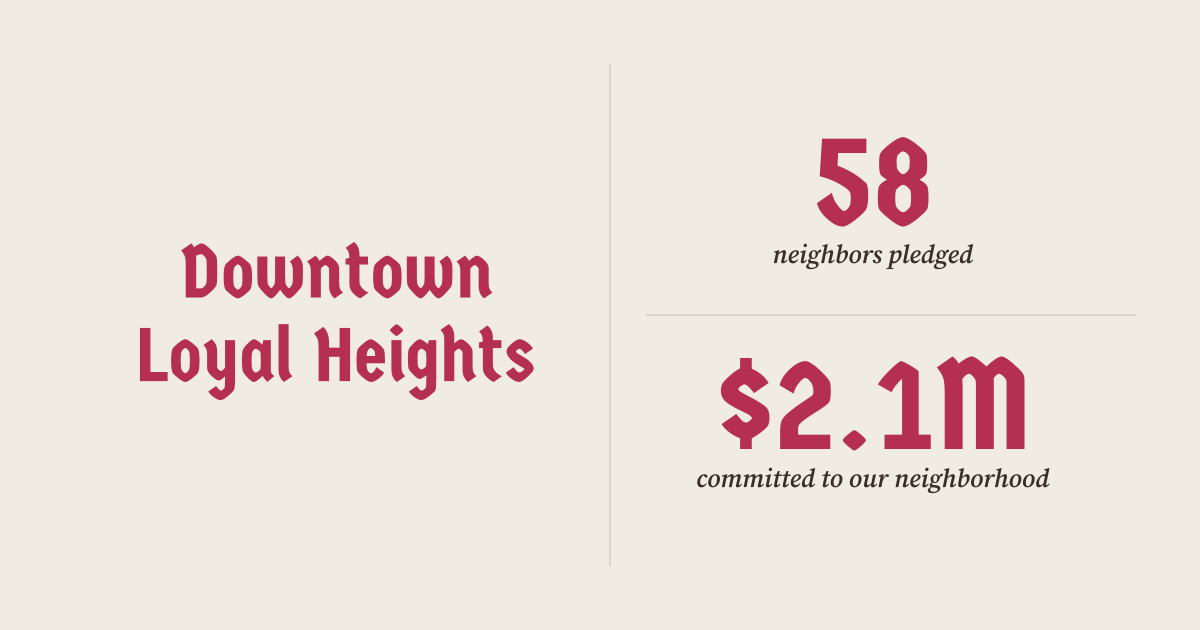
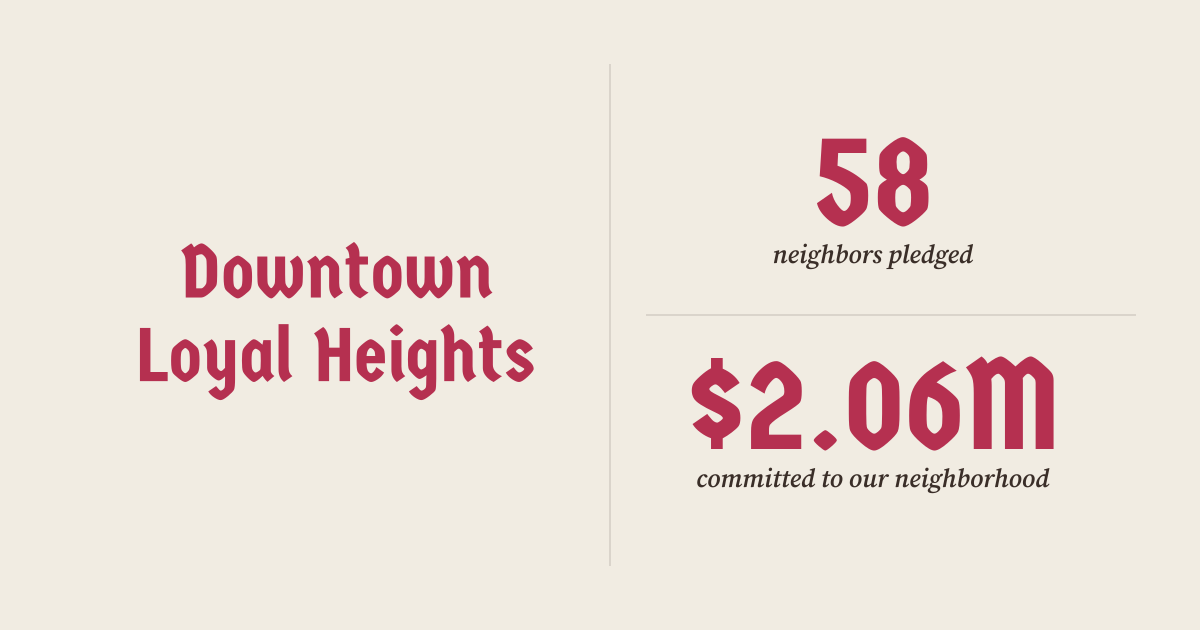
various updates to clean numbers

Changed region(s): [[0.555, 0.5429, 0.8942, 0.7238]]

diff --git a/content/_index.md b/content/_index.md
@@ -7,7 +7,7 @@ The two assembled parcels at the southeast corner of NW 80th St and 24th Ave NW 
 
 **Do Loyal Heights residents want to own and govern that redevelopment, or do we want to watch it happen to us?**
 
-The answer is clear: in just {{< days-since-launch >}} days since launching this site, {{< milestone neighbors >}} of our neighbors have pledged over {{< milestone pledged >}} to shape the future of Loyal Heights. 🙌 
+The answer is clear: in just {{< days-since-launch >}} days since launching this site, {{< milestone neighbors >}} of our neighbors have pledged {{< milestone pledged >}} to shape the future of Loyal Heights. 🙌 
 
 {{< pledge-histogram >}}
 